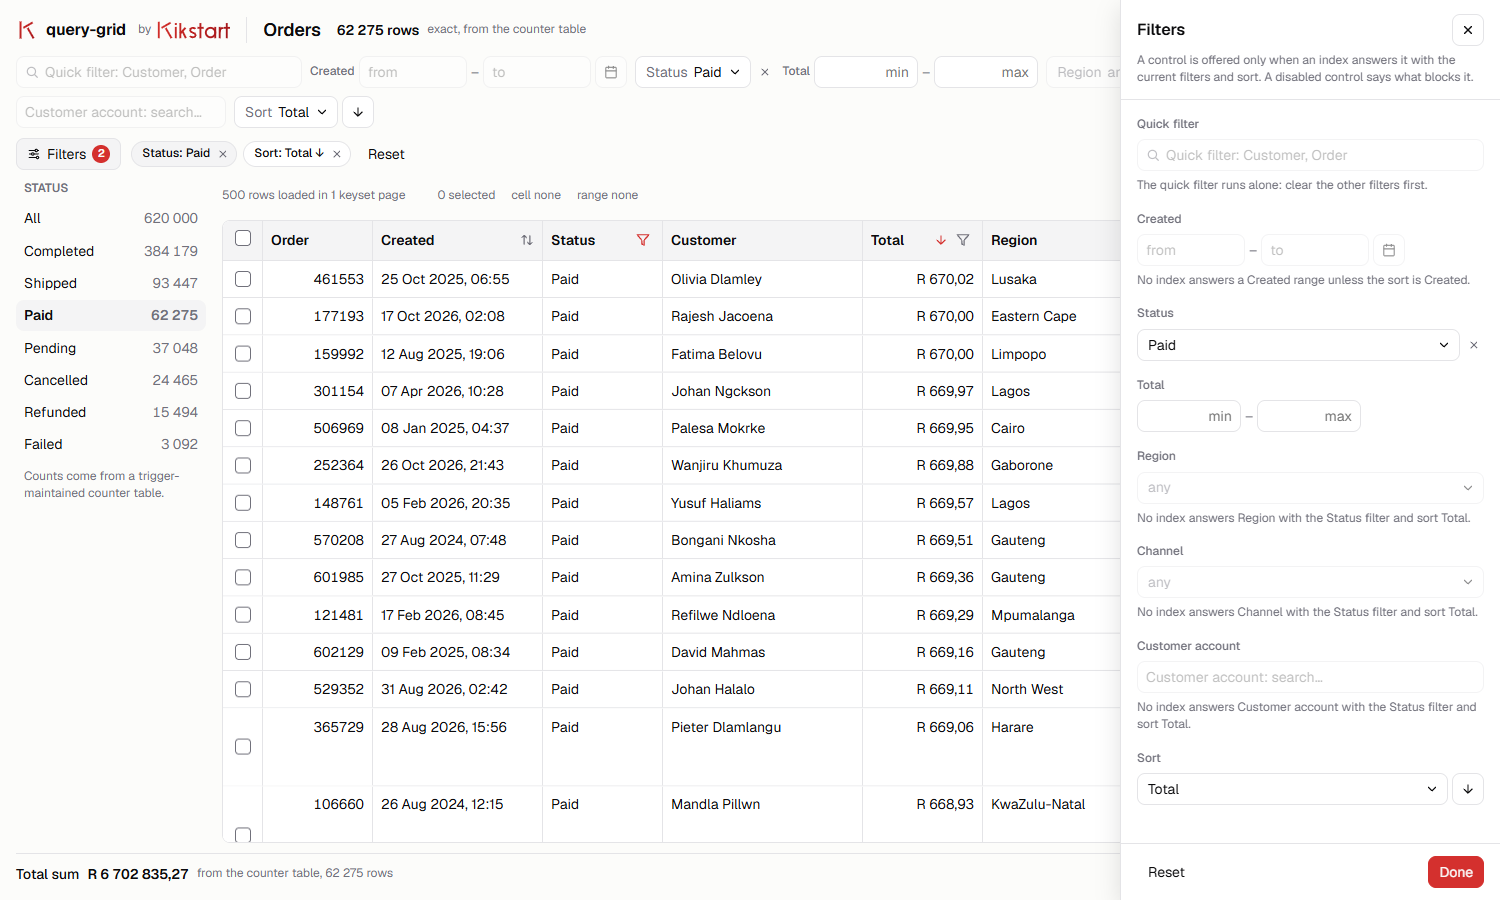
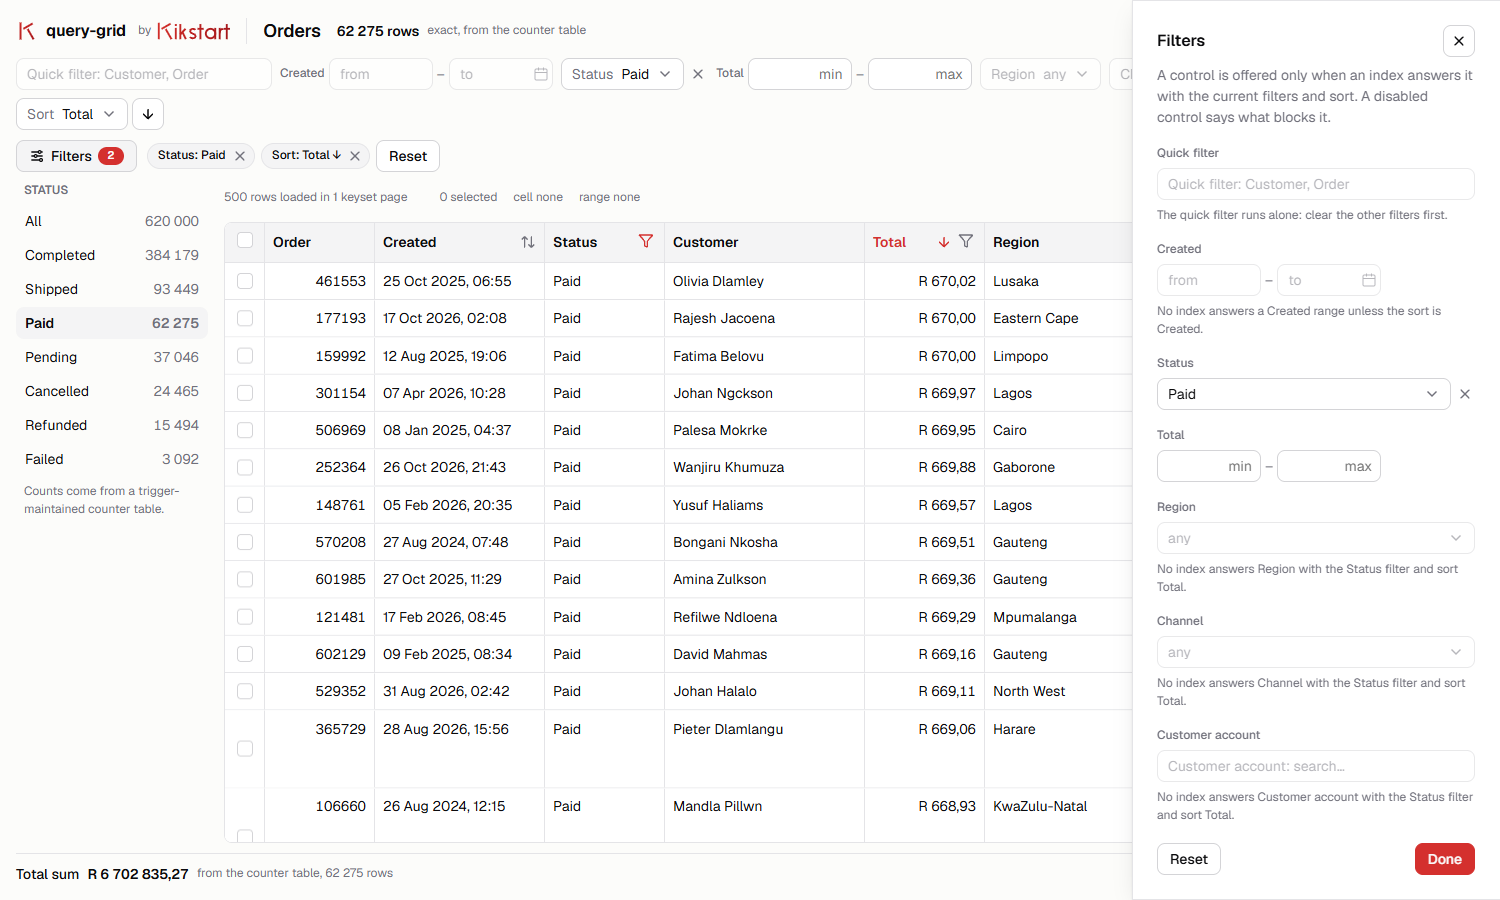
Retake the screenshots from the deployed site on UI SDK's stylesheet; header sort inherits text transform

diff --git a/packages/query-grid/src/ui/styles.css b/packages/query-grid/src/ui/styles.css
@@ -377,6 +377,7 @@
   color: inherit;
   font-weight: 600;
   text-align: start;
+  text-transform: inherit;
 }
 
 :where(.qg-header-sort:hover:not([data-disabled])) {

diff --git a/README.md b/README.md
@@ -710,7 +710,7 @@ Every row was observed on the Neon project (620,000 orders, 30,000 customers, 46
 | 14    | Screenshots                                              | agent-browser against the deployed demo                                                                                                                                                              | 21 captures in `docs/screenshots/`, embedded in the Walkthrough with what each proves                                                                                                                                                                                                                                                                                                                                                                          |
 | 16    | Reviews                                                  | `/code-review`, `/security-review`, `/simplify`                                                                                                                                                      | code review: nine findings, all fixed (the quick exact count now runs under the quick budget; keyboard row selection; the date range end; the sort chip under a capped quick filter; five smaller ones). Security review: no finding at confidence 8 or above. Simplify: shared field helpers, one emitter, one store hook, cached offers, a cheaper in-memory sort and selection lookup, one page wrapper in the demo. Everything above was re-run afterwards |
 | brand | kikstart branding in the demo                            | landing and app pages                                                                                                                                                                                | the mark and wordmark in both headers, "by kikstart" linking to https://kikstart.ai in header and footer, the icon as favicon and apple icon, Geist fonts and kikstart's colours and radius set through fifteen `--ui-*` tokens in the demo only                                                                                                                                                                                                               |
-| style | Styling on UI SDK's stylesheet                           | `wc -l` before and after; the browser pass; `/restyled`                                                                                                                                              | `packages/query-grid/src/ui/styles.css` 1,101 to 630 lines, with no rule left that restyles a UI SDK component and no `--qg-*` token; `apps/demo/src/app/globals.css` 352 to 358; `apps/demo/src/app/restyled/restyled.css` 38 lines of Tailwind `@apply` to 33 lines of plain CSS, 13 of them token assignments. Row heights, column widths and every browser observation above are unchanged                                                                 |
+| style | Styling on UI SDK's stylesheet                           | `wc -l` before and after; the browser pass; `/restyled`                                                                                                                                              | `packages/query-grid/src/ui/styles.css` 1,101 to 631 lines, with no rule left that restyles a UI SDK component and no `--qg-*` token; `apps/demo/src/app/globals.css` 352 to 358; `apps/demo/src/app/restyled/restyled.css` 38 lines of Tailwind `@apply` to 33 lines of plain CSS, 13 of them token assignments. Row heights, column widths and every browser observation above are unchanged                                                                 |
 
 ## Licence
 
